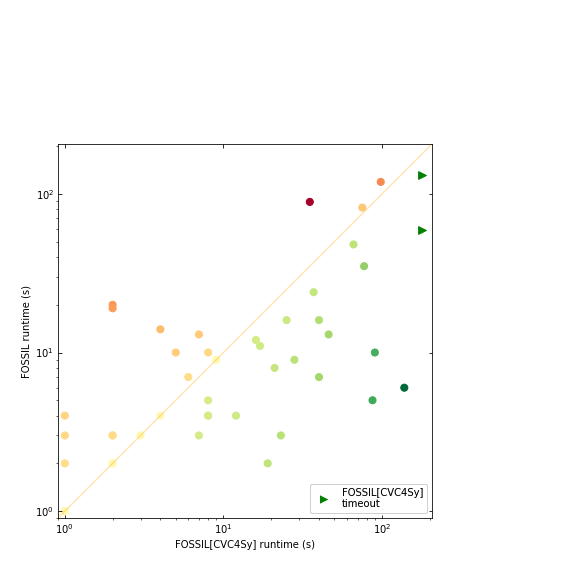
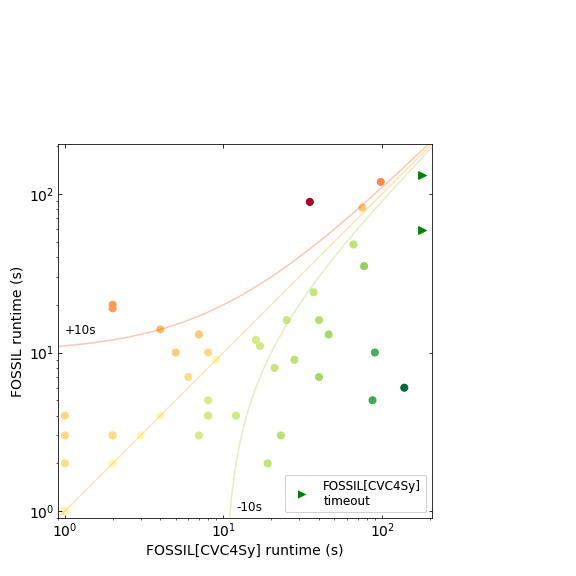
increased plot font sizes, enabled error bands in scatterplots, added draft pie and bar charts

diff --git a/plotting/pretty_plot.py b/plotting/pretty_plot.py
@@ -1,10 +1,11 @@
 import numpy as np
 import matplotlib as mpl
 import matplotlib.pyplot as plt
+plt.rcParams.update({'font.size': 14})
 from matplotlib.lines import Line2D
 
 def pretty_plot(x, y, x_name='FOSSIL[option]', y_name='FOSSIL', log=True, diagonal=True, square=True,
-                measurement='runtime', unit='s', mark='o',
+                measurement='runtime', unit='s', mark='o', bands=True, bands_curve=True, offset_band_label=False,
                 tm_val=None, x_leg='lower right', y_leg='center right', plotdir='./plots/'):
     """
     Display plot for batch of FOSSIL experiments.
@@ -26,7 +27,6 @@ def pretty_plot(x, y, x_name='FOSSIL[option]', y_name='FOSSIL', log=True, diagon
     fig = plt.figure()
     left, width = 0.1, 0.65
     bottom, height = 0.1, 0.65
-    spacing = 0.005
     rect_scatter = [left, bottom, width, height]
     
     # Start with a rectangular Figure
@@ -88,16 +88,36 @@ def pretty_plot(x, y, x_name='FOSSIL[option]', y_name='FOSSIL', log=True, diagon
         else:
             ax_scatter.set_xlim(min(np.min(data[0]), 0), 1.08*np.max(data[0]))
             ax_scatter.set_ylim(min(np.min(data[1]), 0), 1.08*np.max(data[1]))
+    
+    dd = np.linspace(min(np.min(data),0.9), np.max(data)+400, 10**3)
     if diagonal:
-        dd = np.linspace(min(np.min(data),0.9), np.max(data)+400, 10**3)
         ax_scatter.plot(dd, dd, '-', alpha=0.3, color='orange')
+    if bands:
+        if bands_curve:
+            diff = 10
+            dd_above = dd + diff
+            dd_below = dd - diff
+            ax_scatter.text(1, diff + 3, '+{}{}'.format(diff, unit if unit else ''), size=12)
+            offset = int(offset_band_label) # Adjust for presence of timeout legend
+            ax_scatter.text(diff + 2 + offset, 1 + offset, '-{}{}'.format(diff, unit if unit else ''), size=12)
+        else:
+            fact = 2
+            dd_above = dd * 2
+            dd_below = dd / 2
+            ax_scatter.text(1.2, fact + 1, '{}x'.format(fact), size=12)
+            ax_scatter.text(fact + 1, 1.3, '{:.1f}x'.format(1/fact), size=12)
+        ax_scatter.plot(dd, dd_above, '-', alpha=0.3, color='orangered')
+        ax_scatter.plot(dd, dd_below, '-', alpha=0.3, color='yellowgreen')
+        
+
+
 
     # Manually set legends
     if np.any(timeout_x):
         legend_elements_x = [Line2D([0],[0], color='w', marker='>', 
                                    label='{}\ntimeout'.format(x_name),
                                    markerfacecolor='green', markersize=10)]
-        legend_x = ax_scatter.legend(handles=legend_elements_x, loc=x_leg)
+        legend_x = ax_scatter.legend(handles=legend_elements_x, loc=x_leg, prop={"size":12})
         ax_scatter.add_artist(legend_x)
     if np.any(timeout_y):
         legend_elements_y = [Line2D([0],[0], color='w', marker='^', 
